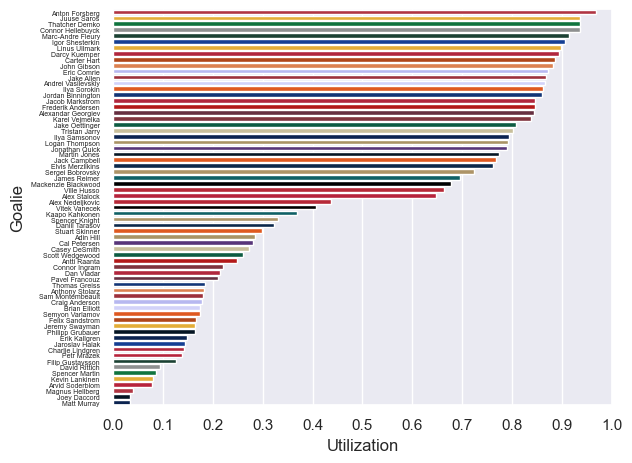
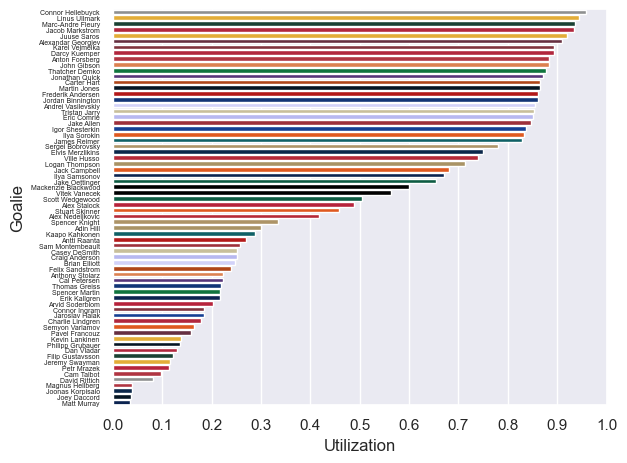
Minor updates to goalie utilization

diff --git a/Goalie_Metrics/Goalie_Utilization.py b/Goalie_Metrics/Goalie_Utilization.py
@@ -1,22 +1,16 @@
 import requests
 import json
 
-if __name__ == "__main__":
-    from Goalie_List import get_active_goalies, populate_active_goalies, \
-        get_team_IDs
-else:
-    from Goalie_Metrics.Goalie_List import get_active_goalies, \
-        populate_active_goalies, get_team_IDs
 
 goalie_utilization_ranking = {}
 
-def get_goalie_utilization_ranking() -> dict:
+
+def goalie_utilization_get_dict() -> dict:
     return goalie_utilization_ranking
 
-def get_time_on_ice():
 
-    # get the list of goalies
-    active_goalies = get_active_goalies()
+def goalie_utilization_calculate_time_on_ice(active_goalies : dict={},
+    team_IDs : dict={}) -> None:
 
     # loop through and populate the time on ice
     for goalie in active_goalies.keys():
@@ -26,14 +20,16 @@ def get_time_on_ice():
         web_data = requests.get(goalie_url)
         parsed_data = json.loads(web_data.content)
 
+        # make sure the goalie has stats
         if len(parsed_data["stats"][0]["splits"]) > 0:
-            records_url = \
+            team_url = \
                 "https://statsapi.web.nhl.com/api/v1/teams/" + \
                 "{}?expand=team.stats".format(
-                    get_team_IDs()[active_goalies[goalie][1]])
-            team_web_data = requests.get(records_url)
+                    team_IDs[active_goalies[goalie][1]])
+            team_web_data = requests.get(team_url)
             team_parsed_data = json.loads(team_web_data.content)
 
+            # ((TOIm + TOIs) / 60) / TeamGP
             time_on_ice = \
                 parsed_data["stats"][0]["splits"][0]["stat"]["timeOnIce"]
             time_on_ice = time_on_ice.split(":")
@@ -42,8 +38,66 @@ def get_time_on_ice():
                     team_parsed_data["teams"][0][
                         "teamStats"][0]["splits"][0]["stat"]["gamesPlayed"]
 
+
 if __name__ == "__main__":
-    print("goalie utilization")
-    populate_active_goalies()
-    get_time_on_ice()
-    print(goalie_utilization_ranking)
+    team_codes = {
+        'Anaheim Ducks' : 24,
+        'Arizona Coyotes' : 53,
+        'Boston Bruins' : 6,
+        'Buffalo Sabres' : 7,
+        'Calgary Flames' : 20,
+        'Carolina Hurricanes' : 12,
+        'Chicago Blackhawks' : 16,
+        'Colorado Avalanche' : 21,
+        'Columbus Blue Jackets' : 29,
+        'Dallas Stars' : 25,
+        'Detroit Red Wings' : 17,
+        'Edmonton Oilers' : 22,
+        'Florida Panthers' : 13,
+        'Los Angeles Kings' : 26,
+        'Minnesota Wild' : 30,
+        'Montréal Canadiens' : 8,
+        'Nashville Predators' : 18,
+        'New Jersey Devils' : 1,
+        'New York Islanders' : 2,
+        'New York Rangers' : 3,
+        'Ottawa Senators' : 9,
+        'Philadelphia Flyers' : 4,
+        'Pittsburgh Penguins' : 5,
+        'San Jose Sharks' : 28,
+        'Seattle Kraken' : 55,
+        'St. Louis Blues' : 19,
+        'Tampa Bay Lightning' : 14,
+        'Toronto Maple Leafs' : 10,
+        'Vancouver Canucks' : 23,
+        'Vegas Golden Knights' : 54,
+        'Washington Capitals' : 15,
+        'Winnipeg Jets' : 52,
+    }
+    active_players = {
+        'Center':{},
+        'Right Wing':{},
+        'Left Wing':{},
+        'Defenseman':{},
+        'Goalie':{}
+    }
+
+    # loop through each team
+    for team in team_codes.keys():
+        roster_url = \
+            "https://statsapi.web.nhl.com/api/v1/teams/" + \
+            "{}?expand=team.roster".format(team_codes[team])
+        web_data = requests.get(roster_url)
+        parsed_data = json.loads(web_data.content)
+
+        # for each listed player in the roster, store the name as the key
+        # and the ID as the value so they can be individually searched later
+        for player in parsed_data["teams"][0]["roster"]["roster"]:
+            active_players[player["position"]["name"]] \
+                [player["person"]["fullName"]] = \
+                    [player["person"]["id"], parsed_data["teams"][0]["name"]]
+    goalie_utilization_calculate_time_on_ice(active_players['Goalie'],
+        team_codes)
+    print("Goalie Utilization (uncorrected):")
+    for goalie in goalie_utilization_ranking.keys():
+        print("\t" + goalie + '=' + str(goalie_utilization_ranking[goalie]))

diff --git a/PlayerEngine.py b/PlayerEngine.py
@@ -10,10 +10,8 @@ import requests
 from CSV_Writer import write_out_player_file
 
 # import all custom modules for statistical analysis
-from Goalie_Metrics.Goalie_List import populate_active_goalies, \
-    get_active_goalies
-from Goalie_Metrics.Goalie_Utilization import get_goalie_utilization_ranking, \
-    get_time_on_ice
+from Goalie_Metrics.Goalie_Utilization import goalie_utilization_get_dict, \
+    goalie_utilization_calculate_time_on_ice
 from Sigmoid_Correction import apply_sigmoid_correction
 from Plotter import plot_player_ranking
 
@@ -78,24 +76,43 @@ def player_sorting() -> None:
 
         # for each listed player in the roster, store the name as the key
         # and the ID as the value so they can be individually searched later
-        print(team)
         for player in parsed_data["teams"][0]["roster"]["roster"]:
             active_players[player["position"]["name"]] \
-                [player["person"]["fullName"]] = player["person"]["id"]
+                [player["person"]["fullName"]] = \
+                    [player["person"]["id"], parsed_data["teams"][0]["name"]]
 
-            if team == 'Anaheim Ducks':
-                print(active_players)
 
-if __name__ == "__main__":
-    populate_active_goalies()
-    get_time_on_ice()
+def calculate_goalie_metrics() -> None:
+
+    # Utilization
+    goalie_utilization_calculate_time_on_ice(active_players['Goalie'],
+        team_codes)
+    write_out_player_file(
+        "Output_Files/Goalie_Files/Instance_Files/Utilization.csv",
+        ["Goalie", "Utilization", "Team"], goalie_utilization_get_dict(),
+        active_players['Goalie'])
+    plot_player_ranking(
+        "Output_Files/Goalie_Files/Instance_Files/Utilization.csv",
+        ["Goalie", "Utilization"],
+        max(list(goalie_utilization_get_dict().values())),
+        min(list(goalie_utilization_get_dict().values())), [],
+        "Graphs/Goalies/Utilization/utilization_base.png")
+
+    # apply correction
     goalie_utilization = apply_sigmoid_correction(
-        get_goalie_utilization_ranking())
+        goalie_utilization_get_dict())
     write_out_player_file(
         "Output_Files/Goalie_Files/Instance_Files/Utilization.csv",
         ["Goalie", "Utilization", "Team"], goalie_utilization,
-        get_active_goalies())
+        active_players['Goalie'])
     plot_player_ranking(
         "Output_Files/Goalie_Files/Instance_Files/Utilization.csv",
         ["Goalie", "Utilization"], 1.0, 0.0, sigmiod_ticks,
         "Graphs/Goalies/Utilization/utilization_corrected.png")
+
+
+if __name__ == "__main__":
+
+    # get all players and sort them into the list for their position
+    player_sorting()
+    calculate_goalie_metrics()
